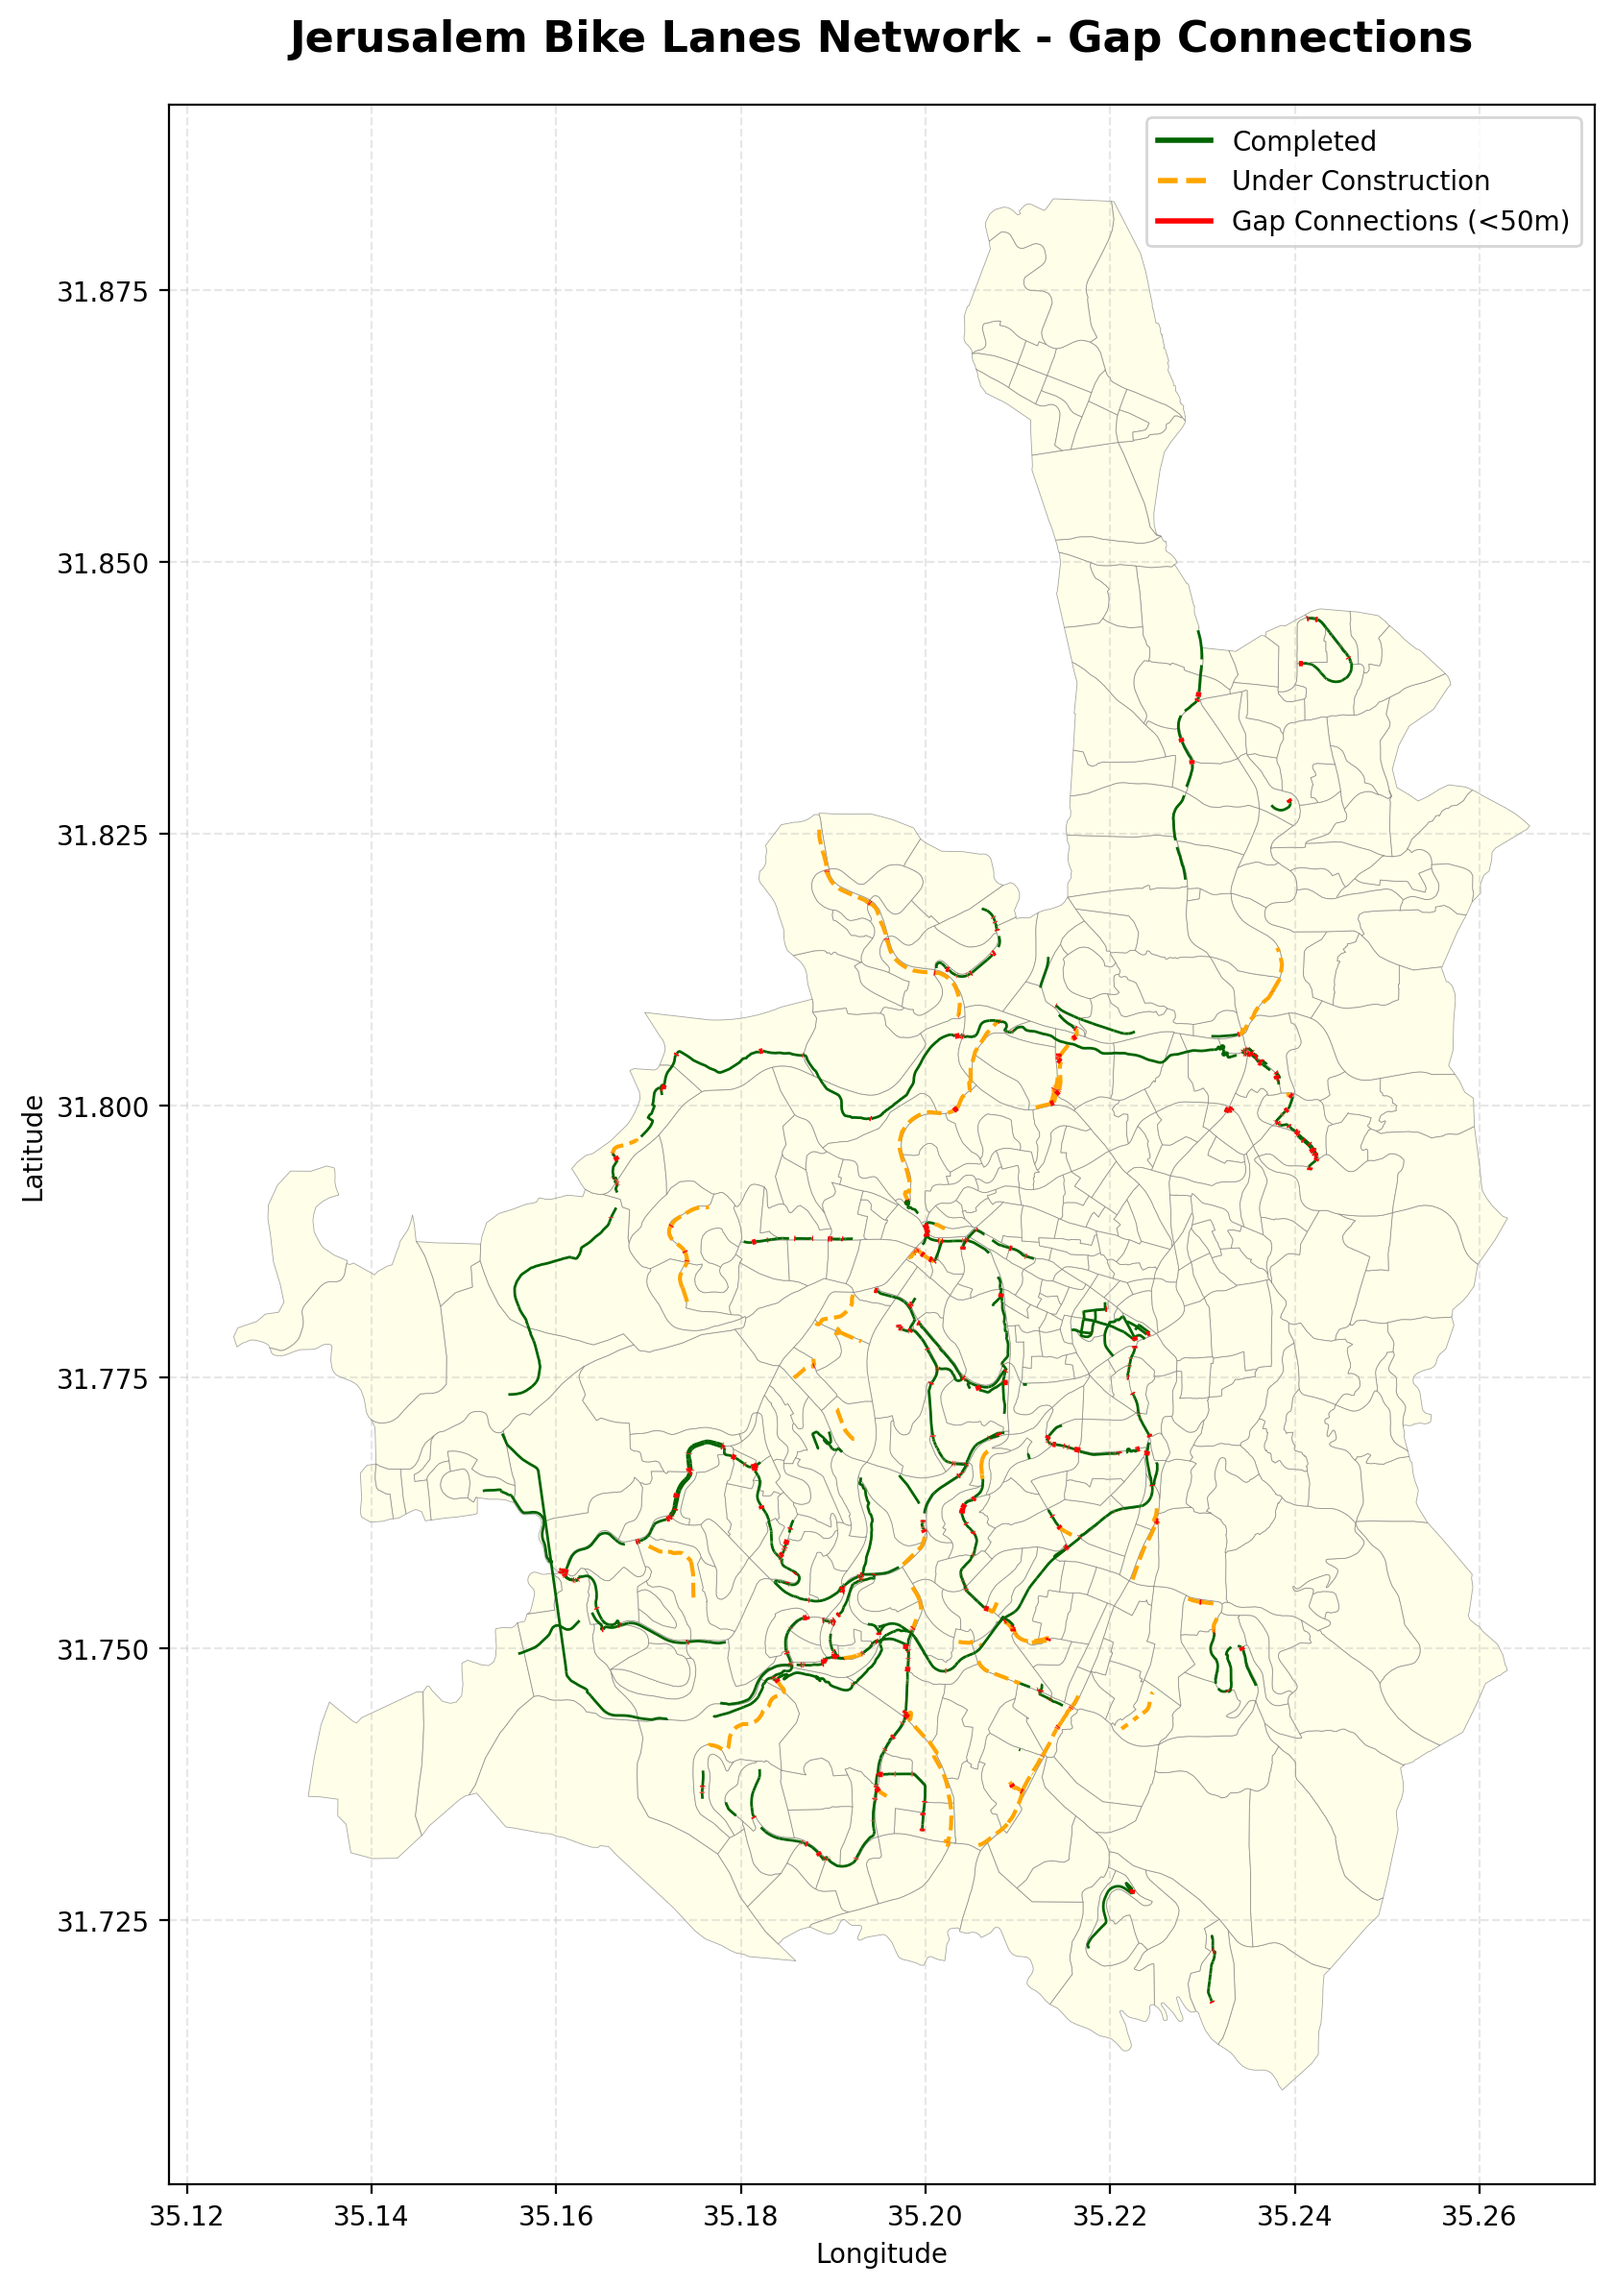
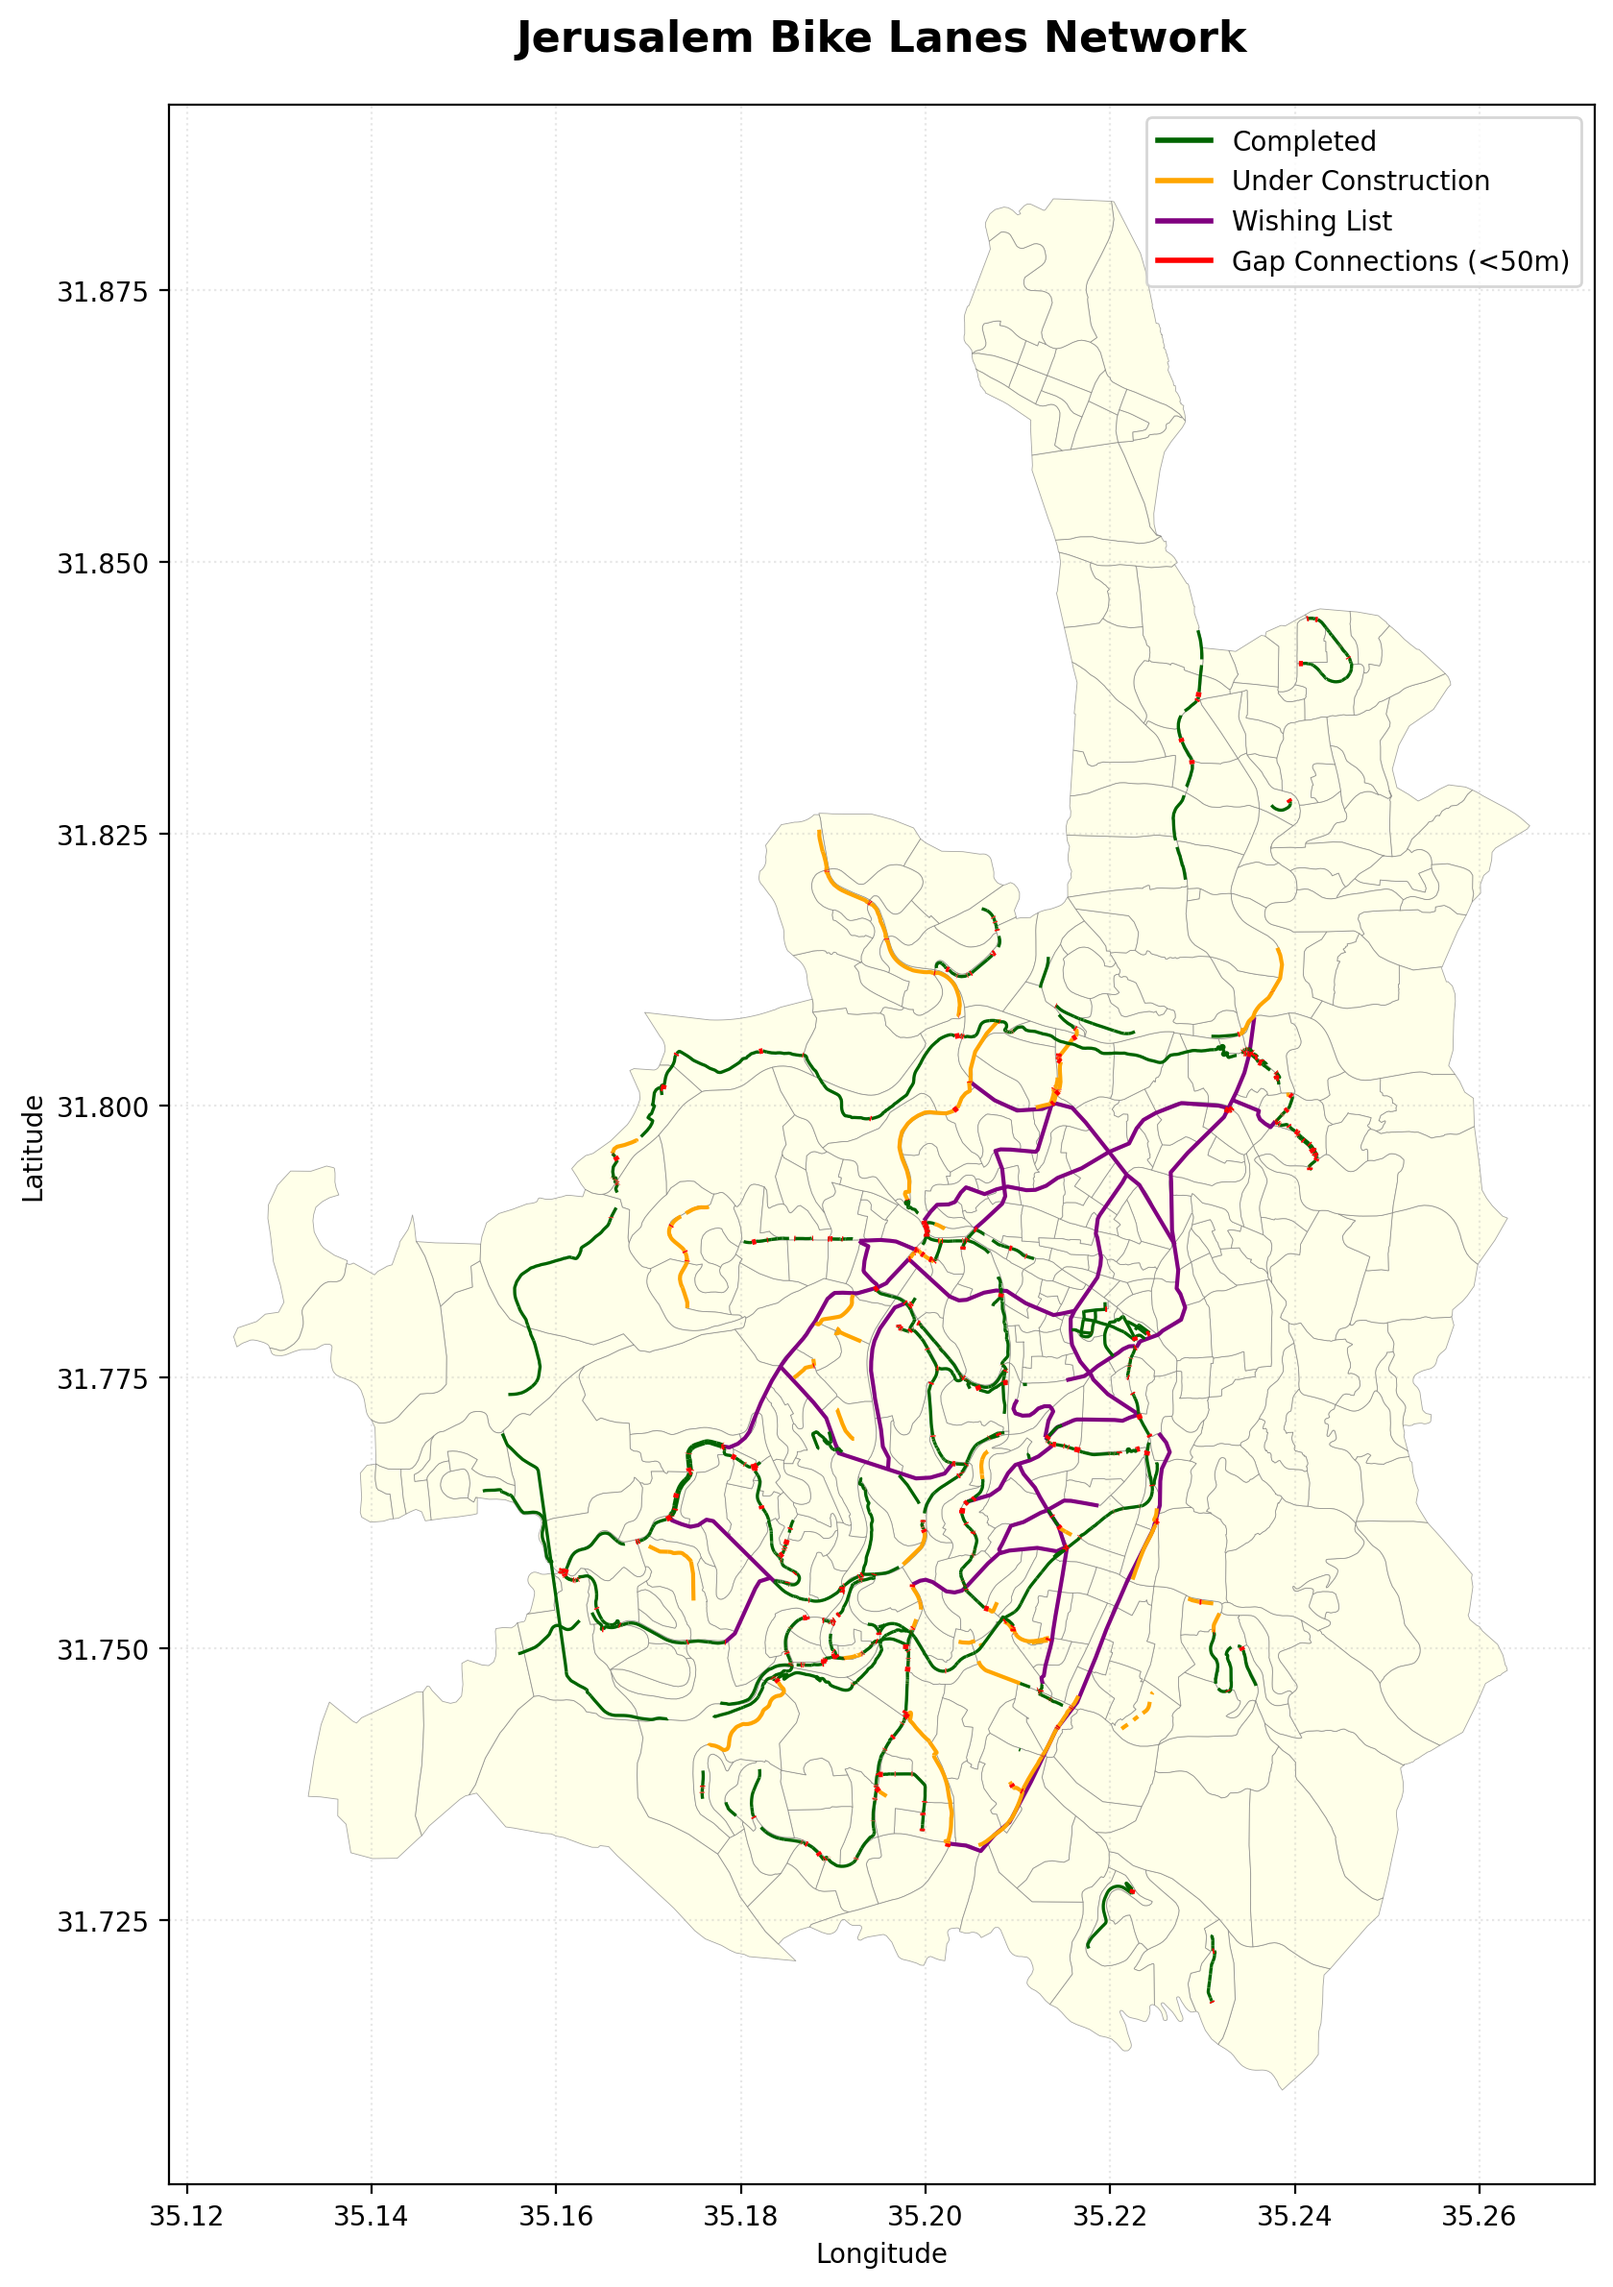
Update map with wishing list and solid lines
- Add bike_lanes_wishing_list.kml support (purple)
- Remove all dashed lines - now using solid lines only
- Colors: green (completed), orange (construction), purple (wishing list), red (connections)

diff --git a/connect_network.py b/connect_network.py
@@ -2,7 +2,7 @@
 Connect Bike Lane Network Gaps and Visualize
 
 This script:
-1. Loads bike lanes
+1. Loads bike lanes (completed, construction, wishing list)
 2. Identifies gaps between lane endpoints
 3. Connects nearby endpoints (within tolerance)
 4. Visualizes the connected network
@@ -23,6 +23,7 @@ import networkx as nx
 script_dir = Path(__file__).parent
 BIKE_LANES_COMPLETED = script_dir / "bike_lanes_completed.kml"
 BIKE_LANES_CONSTRUCTION = script_dir / "bike_lanes_construction.kml"
+BIKE_LANES_WISHING_LIST = script_dir / "bike_lanes_wishing_list.kml"
 AREAS_FILE = script_dir / "jer_areas.shp"
 OUTPUT_FILE = script_dir / "jerusalem_bike_lanes_connected.png"
 
@@ -237,6 +238,7 @@ def main():
     # Load bike lanes
     bike_completed = gpd.read_file(BIKE_LANES_COMPLETED, driver='KML')
     bike_construction = gpd.read_file(BIKE_LANES_CONSTRUCTION, driver='KML')
+    bike_wishing_list = gpd.read_file(BIKE_LANES_WISHING_LIST, driver='KML')
 
     # Load areas
     areas = gpd.read_file(AREAS_FILE)
@@ -245,10 +247,11 @@ def main():
     print(f"Loaded {len(areas)} areas")
     print(f"Loaded {len(bike_completed)} completed bike lane segments")
     print(f"Loaded {len(bike_construction)} bike lanes under construction")
+    print(f"Loaded {len(bike_wishing_list)} wishing list bike lanes")
 
-    # Combine all bike lanes
+    # Combine all bike lanes for connectivity analysis
     all_lanes = gpd.GeoDataFrame(
-        pd.concat([bike_completed, bike_construction], ignore_index=True),
+        pd.concat([bike_completed, bike_construction, bike_wishing_list], ignore_index=True),
         crs=bike_completed.crs
     )
 
@@ -282,6 +285,7 @@ def main():
     areas = areas.to_crs(4326)
     bike_completed = bike_completed.to_crs(4326)
     bike_construction = bike_construction.to_crs(4326)
+    bike_wishing_list = bike_wishing_list.to_crs(4326)
 
     # Create visualization
     print("\nCreating visualization...")
@@ -291,31 +295,35 @@ def main():
     # Plot areas as base layer
     areas.plot(ax=ax, facecolor='lightyellow', edgecolor='gray', linewidth=0.3, alpha=0.7)
 
-    # Plot bike lanes under construction (orange dashed)
-    bike_construction.plot(ax=ax, color='orange', linewidth=1.5, linestyle='--')
+    # Plot wishing list (purple solid)
+    bike_wishing_list.plot(ax=ax, color='purple', linewidth=1.5)
+
+    # Plot bike lanes under construction (orange solid)
+    bike_construction.plot(ax=ax, color='orange', linewidth=1.5)
 
     # Plot completed bike lanes (green solid)
-    bike_completed.plot(ax=ax, color='darkgreen', linewidth=1)
+    bike_completed.plot(ax=ax, color='darkgreen', linewidth=1.2)
 
-    # Plot connections (red)
+    # Plot connections (red solid)
     if connections_gdf is not None and len(connections_gdf) > 0:
-        connections_gdf.plot(ax=ax, color='red', linewidth=2, linestyle='-')
+        connections_gdf.plot(ax=ax, color='red', linewidth=2)
 
     # Styling
-    ax.set_title('Jerusalem Bike Lanes Network - Gap Connections', fontsize=16, fontweight='bold', pad=20)
+    ax.set_title('Jerusalem Bike Lanes Network', fontsize=16, fontweight='bold', pad=20)
     ax.set_xlabel('Longitude', fontsize=10)
     ax.set_ylabel('Latitude', fontsize=10)
 
-    # Add legend
+    # Add legend (all solid lines)
     legend_elements = [
         Line2D([0], [0], color='darkgreen', linewidth=2, label='Completed'),
-        Line2D([0], [0], color='orange', linewidth=2, linestyle='--', label='Under Construction'),
+        Line2D([0], [0], color='orange', linewidth=2, label='Under Construction'),
+        Line2D([0], [0], color='purple', linewidth=2, label='Wishing List'),
         Line2D([0], [0], color='red', linewidth=2, label=f'Gap Connections (<{CONNECTION_TOLERANCE}m)'),
     ]
     ax.legend(handles=legend_elements, loc='upper right', fontsize=10)
 
     # Grid
-    ax.grid(True, linestyle='--', alpha=0.3)
+    ax.grid(True, linestyle=':', alpha=0.3)
 
     plt.tight_layout()
 
